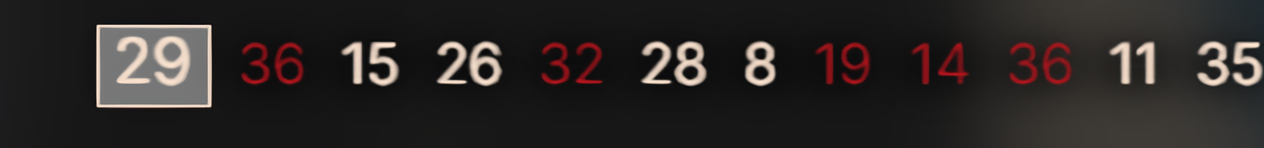
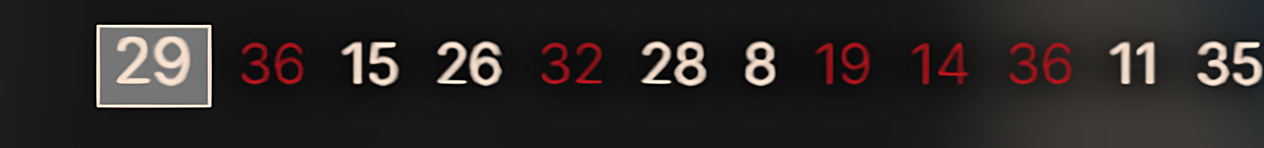
Mejorar nitidez de imagen y parametros OCR
- Aumentar intensidad de Unsharp Mask (sigma 1.5, peso 1.8/-0.8)
  - Ajustar EasyOCR: text_threshold=0.5, width_ths=0.7
  - Imagen mas nitida para mejor deteccion de numeros

diff --git a/gausiano.py b/gausiano.py
@@ -14,8 +14,8 @@ def redimensionar(captura):
     # Super Resolution con EDSR
     imagen = sr.upsample(imagen)
 
-    # Unsharp mask ligero para mejorar enfoque
-    gaussian = cv2.GaussianBlur(imagen, (0, 0), 1.0)
-    imagen = cv2.addWeighted(imagen, 1.3, gaussian, -0.3, 0)
+    # Unsharp mask para mejorar nitidez
+    gaussian = cv2.GaussianBlur(imagen, (0, 0), 1.5)
+    imagen = cv2.addWeighted(imagen, 1.8, gaussian, -0.8, 0)
 
     cv2.imwrite('imagen_redimensionada.png', imagen)

diff --git a/ruleta_ejecutable.py b/ruleta_ejecutable.py
@@ -374,7 +374,7 @@ pygame.mixer.music.set_endevent(pygame.constants.USEREVENT)
 
 # Ciclo para capturar y analizar periódicamente
 while True:
-    captura = tomar_captura()
-    grabar_captura(captura)
+    #captura = tomar_captura()
+    #grabar_captura(captura)
     procesar()
     time.sleep(intervalo_captura)
